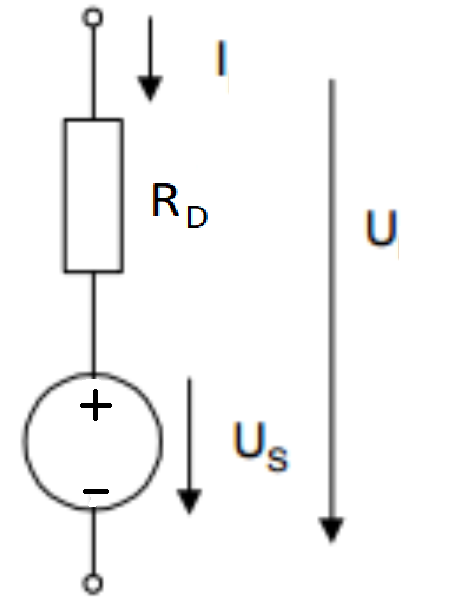
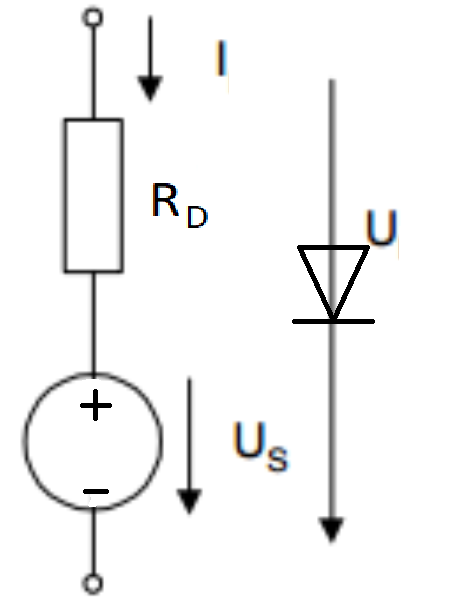
final release

Changed region(s): [[0.6336, 0.4463, 0.8147, 0.5355], [0.6336, 0.3868, 0.8147, 0.476]]

diff --git a/Sections/Halbleiter_Transistoren.tex b/Sections/Halbleiter_Transistoren.tex
@@ -10,18 +10,49 @@ kann der Basisstrom meistens vernachlässigt werden.
 	\includegraphics[width=0.5\columnwidth]{Images/bipolar}
 \end{center}
 
-\noindent Der BJT-Transistor ist folgendermassen beschrieben:
+\noindent Der BJT-Transistor ist folgendermassen mit typischerweise $n\approx1.2, V_T \approx0.025V$ beschrieben:\\
 \begin{minipage}{0.20\textwidth}
-	\includegraphics[width=\linewidth,keepaspectratio=true]{./Images/bjt}
+	\includegraphics[width=\linewidth,keepaspectratio=true]{./Images/bjt}\label{abb:ü-kennlinie}
 \end{minipage}%%% to prevent a space
 \begin{minipage}{0.30\textwidth}
 	\begin{align*}
-		A &= \frac{\partial V_{out}}{\partial V_{in}} = \frac{-R_C \cdot I_C}{n\cdot V_T}  \\
-		V_{out} &= V_{pos} - R_C\cdot\beta\cdot I_s\cdot e^{\frac{V_{in}}{n\cdot V_T}}
+		A &= \frac{\partial V_{out}}{\partial V_{in}} = -\overbrace{\frac{I_C}{n\cdot V_T}}^{gm}\cdot R_C  \\
+		V_{out} &= V_{pos} - R_C\cdot\beta\cdot I_s\cdot e^{\frac{V_{in}}{n\cdot V_T}} \\
+		I_B &= \frac{I_C}{\beta}
 	\end{align*}
 \end{minipage}
 
-\noindent Der Kleinsignalwiderstand $R_{BE}$ kann ist folgend definiert Siehe auch Kapitel \ref{dioden}: \[R_{BE} = \frac{m\cdot V_T}{I_{B0}}\]
+\subsubsection{Ersatzschaltbild}
+\noindent\textbf{Grosssignal}\\
+\begin{minipage}{0.20\textwidth}
+	\includegraphics[width=\linewidth,keepaspectratio=true]{./Images/transitor_kleinsignal}
+\end{minipage}%%% to prevent a space
+\begin{minipage}{0.30\textwidth}
+	\begin{align*}
+		V_{out} = \frac{V_{POS}}{2}
+	\end{align*}
+\end{minipage}
+
+\noindent Das \textbf{Kleinsignal} ist folgendermassen definiert. Siehe auch Kapitel \ref{dioden} für $V_T$: 
+\[
+R_{BE} = \frac{n\cdot V_T}{I_{B0}} \qquad gm = \frac{\beta}{r_{BE}} = \frac{I_C}{n\cdot v_T} \qquad R_{CE} \approxeq \frac{V_A}{I_C}
+\]
+
+\begin{center}
+	\includegraphics[width=\columnwidth,keepaspectratio=true]{Images/bjt_esb}
+\end{center}
+
+
+
+\subsubsection{Übertragungskennlinie}
+Für Abbildung siehe Kapitel \ref{abb:ü-kennlinie}. Die Schnittpunkte sind mögliche Arbeitspunkte des Transistors. Punkt auf $V_{out}$ Achse ist \underline{$V_{POS}$}!
+\[
+I_{RC} = \frac{V_{pos} - V_{out}}{R_c}
+\]
+\begin{center}
+	\includegraphics[width=0.6\columnwidth]{Images/übertragungskennlinie}
+\end{center}
+
 
 \subsubsection{Early-Spannung}
 Die Early-Spannung kann durch die Geradengleichung berechnet werden. Es werden zwei punkte im Lineren Bereich extrapoliert und mit der x-Achse geschnitten.
@@ -32,9 +63,8 @@ R_{CE} \approxeq \frac{V_A}{I_C}
 	\includegraphics[width=0.7\columnwidth]{Images/early-spannung}
 \end{center}
 
-
 \subsubsection{Thermischer Widerstand}
-Mit dem Thermische Widerstand $R_{th}$ kann die Temperaturänderen $\Delta T = R_{th} \cdot P$ berechnet werden. Die Maximale Leistung mit Umgebungstemperatur $R_{th}$: \[P_{max} = \frac{T_{max} - T_U}{R_{th}}\]
+Mit dem Thermische Widerstand $R_{th}$ kann die Temperaturänderen $\Delta T = R_{th} \cdot P$ berechnet werden. Die Maximale Leistung mit Umgebungstemperatur $T_{U}$: \[P_{max} = \frac{T_{max} - T_U}{R_{th}}\]
 
 \subsubsection{Ausgangsstufen}
 Mit BJT-Transistoren können Verstärker gebaut werde wobei die Effizient $\eta = \frac{P_{AC}}{P_B + P_{DC}} \approx \frac{P_{AC}}{P_{DC}}$ ist.
@@ -74,10 +104,6 @@ Guter Kompromiss von A und B Verstärker\\
 \begin{minipage}{0.30\textwidth}
 \end{minipage}
 
-
-\subsubsection{Ersatzschaltbild}
-\includegraphics[width=\linewidth,keepaspectratio=true]{Images/bjt_esb}
-
 \subsection{Schaltungen}
 \textbf{Widlar-Stromspiegel}\\
 \begin{minipage}{0.20\textwidth}
@@ -109,16 +135,33 @@ Guter Kompromiss von A und B Verstärker\\
 		I_{C2} &= I_{BIAS} \cdot \frac{1}{e^{\frac{V_D}{n\cdot V_T}} + 1} \\
 	\end{align*}
 \end{minipage}
+\textbf{Differenzverstärker} mit Arbeitspunkt bei $V_{in1} = V_{in2}$. Das bedeutet, $I_{BIAS}/2$ fliesst durch T1 und T2.\\
 \begin{minipage}{0.20\textwidth}
-	\includegraphics[width=\linewidth,keepaspectratio=true]{Images/diffverstärker2}
+	\noindent\includegraphics[width=1.2\linewidth,keepaspectratio=true]{Images/diffverstärker2_1}
 \end{minipage}%%% to prevent a space
 \begin{minipage}{0.30\textwidth}
 	\begin{align*}
-		S_{x} &= \frac{I_{Cx}}{m\cdot V_T} \qquad V_{BE} = \frac{\Delta V_{in}}{2} \\
-		V_{out} &= \frac{\Delta V_{in}}{2} S_{T1}R_{C1} + \frac{\Delta V_{in}}{2} S_{T2}R_{C2}
+		gm_{1,2} &= \frac{I_{C1}}{n\cdot V_T} = \frac{I_{BIAS}}{2nV_T} \\
+        r_{BE1} &= \frac{2\beta n V_T}{I_{BIAS}} \\
+        I_{C2} + I_{B2} &= - (I_{C1} + I_{B1}) \\
+        \xRightarrow[]{} v_{BE1} &= -v_{BE2} = \Delta V_{in} / 2 \\
+       \xRightarrow[]{} \Delta V_{out1,-out2} &= \Delta V_{in} / 2 \cdot gm_{1,2} \cdot RC1 \\
+       A &= -\frac{I_{BIAS}}{2nV_T}RC
 	\end{align*}
 \end{minipage}
+\noindent\includegraphics[width=\columnwidth]{Images/diffverstärker2_2}\\
 
+\textbf{Spannungsverstärker}\\
+\begin{minipage}{0.20\textwidth}
+	\includegraphics[width=\linewidth,keepaspectratio=true]{Images/spannungsverstärker}\\
+\end{minipage}%%% to prevent a space
+\begin{minipage}{0.30\textwidth}
+	\begin{align*}
+		\Delta V_{out} &= - \frac{RC}{R3}\Delta V_{in} \\
+		A &= \frac{\Delta V_{out}}{\Delta V_{in}} = -gm(RC//R3)
+	\end{align*}
+\end{minipage}
+\includegraphics[width=\columnwidth]{Images/spannungsverstärker_kl}
 
 
 
@@ -144,3 +187,16 @@ Andernfalls ist Mosfet im Sättigungsbereich als spannungsgesteuerte Stromquelle
 \[
 I_D = \frac{\beta}{2}\left(V_{GS} - V_{TH}\right)^2
 \]
+\includegraphics[width=\columnwidth]{Images/kennlinie_mosefet}
+
+\subsection{Analoger Schalter}
+\begin{minipage}{0.20\textwidth}
+\begin{center}
+		\includegraphics[width=0.5\linewidth,keepaspectratio=true]{Images/analoger_schalter}
+\end{center}
+\end{minipage}%%% to prevent a space
+\begin{minipage}{0.30\textwidth}
+	\begin{align*}
+		R_{DS} = \frac{dV_{DS}}{dI_d} = \frac{1}{\beta (V_{GS} - V_T)}
+	\end{align*}
+\end{minipage}

diff --git a/Sections/Halbleiter_Opamp.tex b/Sections/Halbleiter_Opamp.tex
@@ -15,6 +15,17 @@ Das Grundsätziche Vorgehen um Opamp-Schaltungen zu analysieren:
 	\item Kontrollieren, ob $V_{out}$ innerhalb der Versorgung liegt.
 \end{enumerate}
 
+\textbf{Beispiel:}\\
+\begin{center}
+	\includegraphics[width=0.6\columnwidth]{Images/screenshot001}
+\end{center}
+\begin{align*}
+	V_{out} &= A_{ol}(V_{opp} - V_{opn}) = A_{ol}(V_{in2} - V_{opn}) \\
+	V_{opn} &= V_{out}\frac{RG}{RG + RF} + V_{in1}\frac{RF}{RG + RF} \quad\text{(Superposition)} \\
+		V_{out} &\approxeq \frac{RG + RF}{RG}V_{in2} - \frac{RF}{RG}V_{in1}
+\end{align*}
+
+
 \subsection{Schaltungen}
 \subsubsection{Buffer}
 Ein Buffer hat keine Belastung an $V_{in}$ und keine Rückwirkung auf Eingang.\\
@@ -35,13 +46,12 @@ Ein Buffer hat keine Belastung an $V_{in}$ und keine Rückwirkung auf Eingang.\\
 \begin{minipage}{0.25\textwidth}
 	\begin{align*}
 		A &= \frac{V_{out}}{V_{in}} = 1 + \frac{RF}{R1} \\
-		V_{out} &= \frac{A}{A \cdot \frac{R1 + RF}{R1} + 1} \cdot V_{in}
+		V_{out} &= \frac{A}{A \cdot \frac{R1}{R1 + RF} + 1} \cdot V_{in}
 	\end{align*}
 \end{minipage}
 
 Weil $I1 = I2$ gilt, und wenn $\frac{1}{A_{ol}} << \frac{R_1}{R_1 + R_F}$, dann gilt auch:
 \[ V_{out} \approxeq \frac{R1 + RF}{R1} \cdot (V_{in} + \overbrace{V_{OS}}^{= 0})\]
-
 
 \subsubsection{Invertierender Verstärker}
 \begin{minipage}{0.25\textwidth}
@@ -65,7 +75,7 @@ Für nicht ideale Verstärker mit Offsetspannung:
 \end{minipage}%%% to prevent a space
 \begin{minipage}{0.30\textwidth}
 	\begin{align*}
-		V_{out} &= -\frac{RF}{R0} \cdot V_{in1} -\frac{RF}{R1} \cdot V_{in2} - \dots
+		V_{out} &= -RF\cdot \left(\frac{V_{in1}}{R0} + \frac{V_{in2}}{R1} + \dots \right)
 	\end{align*}
 \end{minipage}
 
@@ -86,7 +96,7 @@ Mittels Superposition von $V_{in1}$ und $V_{in2}$ und Spannungsteilern kann folg
 \end{minipage}%%% to prevent a space
 \begin{minipage}{0.30\textwidth}
 	\begin{align*}
-		V_{out} &= \frac{R3 +  R4}{R3} \\ &\cdot \left(\frac{R1}{R1 + R2}V_{AGND} + \frac{R2}{R1 + R2}V_{in1}\right) \\ &- \frac{R4}{R3}V_{in2}
+		V_{out} &= \frac{R3 +  R4}{R3} \\ &\cdot \left(\frac{R1}{R1 + R2}V_{GND} + \frac{R2}{R1 + R2}V_{in1}\right) \\ &- \frac{R4}{R3}V_{in2}
 	\end{align*}
 \end{minipage}
 
@@ -125,28 +135,19 @@ Parasität reelle Widerstände $-I1$ soll $I_1$ kompensieren. Kein Spannungsabfa
 	\end{align*}
 \end{minipage}
 
-
-\subsubsection{Komperator}
-Bei Komperatoren ist Ausgang entweder $V_{out_{max}}$ oder $V_{out_{min}}$ und die schalten wenn $V_{opp} = V_{opn}$6\\
-\begin{minipage}{0.20\textwidth}
-	\includegraphics[width=\linewidth,keepaspectratio=true]{./Images/komperator_invertierend}
-\end{minipage}%%% to prevent a space
-\begin{minipage}{0.30\textwidth}
-	\begin{align*}
-		V_{opp} &= \frac{V_{ref}\cdot Rf + V_{out_{min/max}}\cdot R1}{R1 + Rf}
-	\end{align*}
-\end{minipage}
-
 \subsubsection{Integrator}
+Bei AGND $\neq$ 0 gilt $V_{in}(t) = \tilde{V}_{in}(t) - AGND$!\\
 \begin{minipage}{0.20\textwidth}
 	\includegraphics[width=\linewidth,keepaspectratio=true]{./Images/integrator}
 \end{minipage}%%% to prevent a space
 \begin{minipage}{0.30\textwidth}
 	\begin{align*}
 		V_{out}(t) &= -\frac{1}{RC}\int_{0}^{t}V_{in}(\tau)d\tau + V_0 \\
-		&= -\frac{1}{C}\int_{0}^{t}I_c{in}(\tau)d\tau + V_0
+		&= -\frac{1}{C}\int_{0}^{t}I_{c}(\tau)d\tau + V_0
 	\end{align*}
 \end{minipage}
+
+Für Tiefpass gilt $I_C = 0 \xrightarrow{} V_{out} = - \frac{RF}{R1}V_{in}$
 
 \subsubsection{Differenzierer}
 \begin{minipage}{0.20\textwidth}
@@ -154,7 +155,17 @@ Bei Komperatoren ist Ausgang entweder $V_{out_{max}}$ oder $V_{out_{min}}$ und d
 \end{minipage}%%% to prevent a space
 \begin{minipage}{0.30\textwidth}
 	\begin{align*}
-		V_{out}(t) &= -Rf\cdot C \frac{dV_{in}}{dt}
+		V_{out}(t) &= -RF\cdot C \frac{dV_{in}}{dt}
+	\end{align*}
+\end{minipage}
+
+\subsection{Referenzquelle}
+\begin{minipage}{0.20\textwidth}
+	\includegraphics[width=\linewidth,keepaspectratio=true]{./Images/referenzquelle}
+\end{minipage}%%% to prevent a space
+\begin{minipage}{0.30\textwidth}
+	\begin{align*}
+		V_{OPO} = \frac{VD2 - VD1}{RG}RF + VD1
 	\end{align*}
 \end{minipage}
 
@@ -184,3 +195,31 @@ Slew-Rate (SW) bezeichnet mögliche Änderungsgeschwindigkeit der Ausgangsspannu
 \[
 SR = \left|\frac{dV_{out}}{dt}\right|_{max}
 \]
+
+\subsection{Bias-Strom}
+Bias-Strom kann Kompensiert werden, Offset-Strom nicht.\\
+\includegraphics[width=\columnwidth]{Images/bias-kompensation}
+
+
+\section{Komperator}
+Bei Komperatoren ist der Feedback auf den Positiven Eingang. Das bedeutet das der Ausgang entweder $V_{out_{max}}$ oder $V_{out_{min}}$ und die \textbf{Schaltschwellen} sind $V_{out} = VDD$ und $V_{out} = GND$. Der Komperator schaltet, wenn $V_{opp} = V_{opn}$\\
+\begin{minipage}{0.20\textwidth}
+	\includegraphics[width=\linewidth,keepaspectratio=true]{./Images/komperator_invertierend}
+\end{minipage}%%% to prevent a space
+\begin{minipage}{0.30\textwidth}
+	\begin{align*}
+		V_{opp} &= \frac{V_{ref}\cdot Rf + V_{out_{min/max}}\cdot R1}{R1 + Rf}
+	\end{align*}
+\end{minipage}
+
+\subsection{Schmitt-Trigger mit Spannungsteiler}
+\begin{minipage}{0.20\textwidth}
+	\includegraphics[width=\linewidth,keepaspectratio=true]{./Images/screenshot002}
+\end{minipage}%%% to prevent a space
+\begin{minipage}{0.30\textwidth}
+	\begin{align*}
+		V_{opp} &= \frac{RF//R0}{R1 + RF//R0}V_{ref}  \\
+		&+ \frac{R1//R0}{R1//R0 + RF}V_{out}
+	\end{align*}
+\end{minipage}
+

diff --git a/Sections/Digitaltechnik.tex b/Sections/Digitaltechnik.tex
@@ -1,5 +1,30 @@
 \section{Digitaltechnik}
-Die \textbf{CMOS} Logik haben \underline{keinen statischen Stromverbrauch}, \underline{hohe Störsicherheit}, brauchen aber \underline{mehr Transistoren}. Alle CMOS-Schaltungen haben IMMER einen Pull-UP (PUP, PMOS, Verbindet bei 0 und öffnet bei 1) und Pull-Down (PDN, NMOS, Verbindet bei 1 und öffnet bei 0) teil!
+Die \textbf{CMOS} Logik gegenüber Bipolar-Transistoren haben \underline{keinen statischen Stromverbrauch}, \underline{hohe Störsicherheit}, brauchen aber \underline{mehr Transistoren}. Alle CMOS-Schaltungen haben IMMER einen Pull-UP (PUP, PMOS, Verbindet bei 0 und öffnet bei 1) und Pull-Down (PDN, NMOS, Verbindet bei 1 und öffnet bei 0) teil!
 
 \noindent\textbf{Beispiel} eines komplexen CMOS Schaltung. Alle möglichen Zustände müssen definiert sein und keiner darf Floating sein. Das bedeutet, dass jede PMOS und NMOS Logikteil immer Dual zu einander sein müssen und immer genau einen Pfad hat $\xRightarrow{}$ Serie zu Parallel, Parallel zu Serie.
-\includegraphics[width=\columnwidth]{Images/cmos}
+\begin{center}
+	\includegraphics[width=\columnwidth]{Images/cmos}
+\end{center}
+
+\subsection{Verzögerungszeit CMOS}
+Bei MOSFET als \textbf{Widerstand} ergibt sich die Verzögerungszeit mit Technologieparameter $R_{on}, C_L, V_{swing}, I_{AC}$ als
+\[
+t = \ln(0.5)\cdot R_{on}C_L
+\]
+Mit Stromquelle
+\[
+t = \frac{C_L \frac{V_{swing}}{2}}{I_{AV}}
+\]
+Aus diesen Gründen ist bei ähnlicher Technologe-Dimension Bipolar schneller als MOS.
+
+\subsection{Spannungspegel}
+\begin{center}
+	\includegraphics[width=0.8\columnwidth]{Images/spannungspegel}
+\end{center}
+
+
+\subsection{Signalübertragung}
+\begin{center}
+	\includegraphics[width=0.8\columnwidth]{Images/signalübertragung}
+\end{center}
+

diff --git a/Sections/Analog-Digital-Wandler.tex b/Sections/Analog-Digital-Wandler.tex
@@ -16,14 +16,19 @@ haben gleichen Datendurchsatz wie Flash-Wandler, haben aber Latenz da mehrstufig
 S\&H speichert Eingangssignal wärend Wandlung. mit DAC-Ausgang nährt sich schrittweise dem Eingangssignal an.
 \includegraphics[width=\columnwidth]{Images/wägeverfahren_adc}
 
+
 \subsection{Integrierende Verfahren (Dual Slope, Zählverfahren)}
 Integriert bis Komperator schaltet bei $V_{int} = 0$.\\
 \includegraphics[width=\columnwidth]{Images/dual_slop_adc}
 \begin{align*}
 	V_{int} &= -\int\limits_{0}^{T_{int}}\frac{1}{R_i \cdot C_i}\cdot V_{in1} dt \\
 	V_{int_{max}} &= -\frac{1}{R_i \cdot C_i}V_{in1}\cdot T_{int}\\
-	V_{abint}(t) &= V_{int_{max}} - \frac{1}{R_i \cdot C_i}\cdot V_{ref} \cdot t \\
-	t_{abint} = -\frac{V_{in1}\cdot T_{int}}{V_{ref}}
+	V_{abint}(t) &= V_{int}(t) = V_{int_{max}} - \frac{1}{R_i \cdot C_i}\cdot V_{ref} \cdot t \\
+\end{align*}
+Weil Komperator bei $V_{int} = 0$ wechselt, kann folgende Formel gefunden werden:
+\begin{align*}
+	0V &= -\frac{1}{R_i \cdot C_i}V_{in1}\cdot T_{int}  - \frac{1}{R_i \cdot C_i}\cdot V_{ref} \cdot t \qquad | \cdot (R_iC_i) \\
+	&\xrightarrow{} t_{abint} = -\frac{V_{in1}\cdot T_{int}}{V_{ref}}
 \end{align*}
 
 \includegraphics[width=\columnwidth]{Images/dual_slop_adc1}

diff --git a/Sections/Halbleiter_Dioden.tex b/Sections/Halbleiter_Dioden.tex
@@ -11,10 +11,12 @@ I_D(V_D) = I_S \cdot \left(e^{\frac{V_D}{n\cdot V_T}}- 1\right)
 \]
 
 \subsection{Ersatzschaltbilder}
-Um Dioden-Schaltung auszurechnen können Ersatzschaltungen am Arbeitspunkt bestimmt werden mit Sättigungsspannung $U_S \approx 0.7V$. Der Widerstand lässt sich mit $R_D = \frac{\Delta I}{\Delta V}$ beschreiben. \\
-\begin{center}
-	\includegraphics[width=0.3\columnwidth]{Images/diode_esb}
-\end{center}
+\begin{minipage}{0.20\textwidth}
+	\includegraphics[width=\linewidth,keepaspectratio=true]{./Images/diode_esb}
+\end{minipage}%%% to prevent a space
+\begin{minipage}{0.30\textwidth}
+	Um Dioden-Schaltung auszurechnen können Ersatzschaltungen am Arbeitspunkt bestimmt werden mit Sättigungsspannung $U_S \approx 0.7V$. Der Widerstand lässt sich mit $R_D = \frac{\Delta I}{\Delta V}$ beschreiben. \\
+\end{minipage}
 
 \subsection{Diodenkennlinie}
 Der Innenwiderstand kann durch Ableiten von $R_D = \frac{\Delta I}{\Delta V}$ erhalten werden.\\

diff --git a/Sections/Einführung.tex b/Sections/Einführung.tex
@@ -44,4 +44,12 @@ Temperaturabhängigkeit
 
 \includegraphics[width=\columnwidth]{Images/leitfähigkeit}
 
-
+\subsection{Spannungsteiler}
+\begin{minipage}{0.20\textwidth}
+	\includegraphics[width=\linewidth,keepaspectratio=true]{./Images/spannungsteiler}
+\end{minipage}%%% to prevent a space
+\begin{minipage}{0.30\textwidth}
+	\begin{align*}
+		\frac{U_2}{U} = \frac{R_2}{R_1 + R_2}
+	\end{align*}
+\end{minipage}

diff --git a/Zusammenfassung.tex b/Zusammenfassung.tex
@@ -1,7 +1,7 @@
 % Document information
 \newcommand{\titleinfo}{Zusammenfassung Elo1}
 \newcommand{\authorinfo}{Sandro Pedrett}
-\newcommand{\version}{1.0}
+\newcommand{\version}{1.2}
 \newcommand{\versioninfo}{HS21}
 % Header
 \include{Template/Header}
@@ -19,6 +19,7 @@
 \input{Sections/Digital-Analog-Wandler}
 \input{Sections/Analog-Digital-Wandler}
 
+\newpage
 \input{Sections/Digitaltechnik}
 
 \newpage
